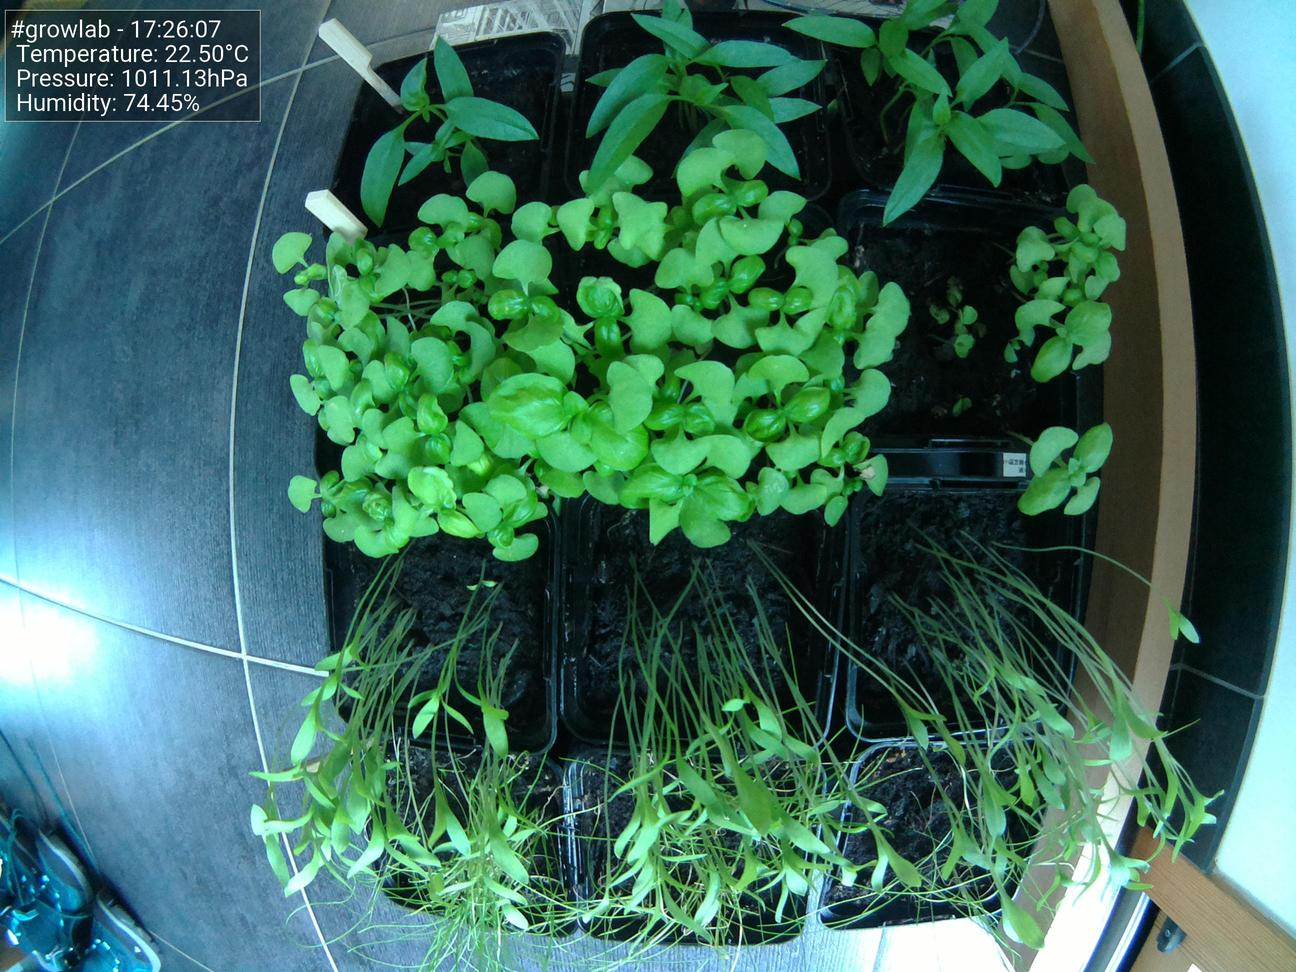
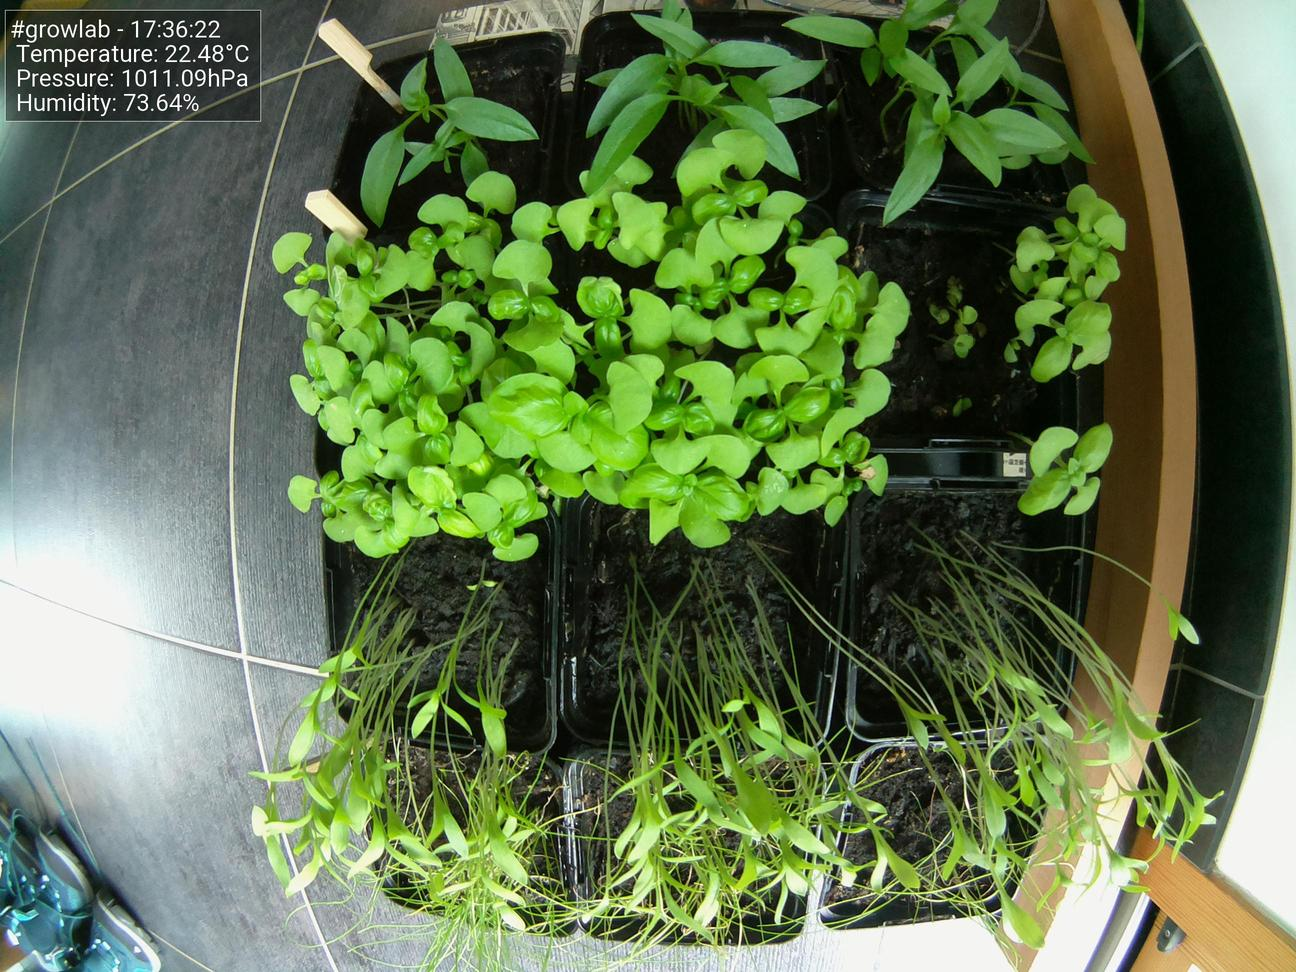
Update images at Sat 26 Jun 17:36:31 CEST 2021

diff --git a/docs/index.html b/docs/index.html
@@ -47,19 +47,19 @@
                         <tbody>
                             <tr>
                                 <td>Time</td>
-                                <td>17:26:07</td>
+                                <td>17:36:22</td>
                             </tr>
                             <tr>
                                 <td>Temperature</td>
-                                <td>22.50°C</td>
+                                <td>22.48°C</td>
                             </tr>
                             <tr>
                                 <td>Humidity</td>
-                                <td>74.45%</td>
+                                <td>73.64%</td>
                             </tr>
                             <tr>
                                 <td>Pressure</td>
-                                <td>1011.13hPa</td>
+                                <td>1011.09hPa</td>
                             </tr>
                         </tbody>
                     </table>
@@ -67,7 +67,7 @@
 
                 <h5>Latest image</h5>
                 <div style="width: 85%;">
-                            <img class="figure-img img-fluid rounded" src="./preview.jpg?uid=1624721175.703556">
+                            <img class="figure-img img-fluid rounded" src="./preview.jpg?uid=1624721791.4203877">
                 </div>
             </div>
         </div>
